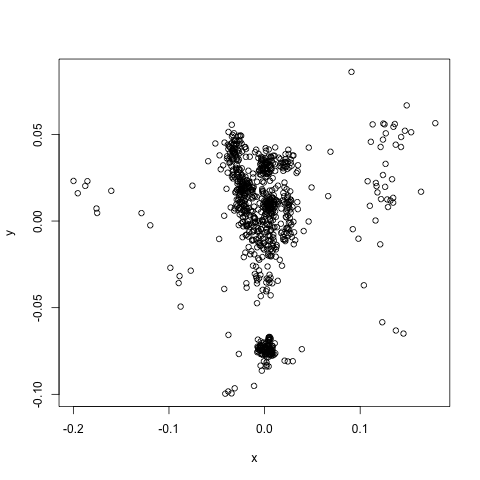
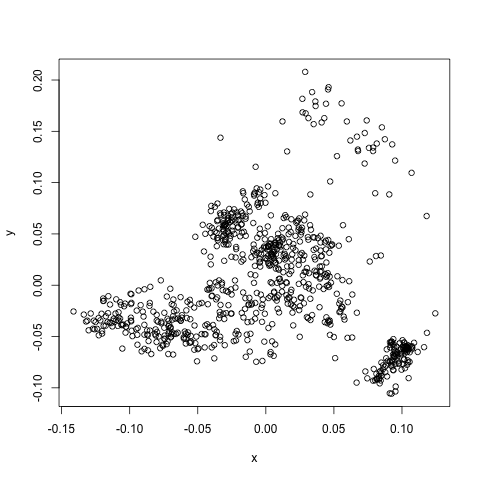
new analysis

diff --git a/cluster-snprelate/README.md b/cluster-snprelate/README.md
@@ -1,21 +1,15 @@
-<h2>Multidementional Scaling</h2>
+<h2>SNPRelate IBS then MDS</h2>
+SNPRelate R package using
+snpgdsIBS: Identity-By-State (IBS) - calculate the fraction of identity by state for each pair of samples
+cmdscale: Classical Multidementional Scaling, also known as principal coordinates analysis
 
-combined PHG472 and 2019_hapmap
+combined PHG472 and 2019_hapmap, both data sets are filtered before merging with maf < 0.5 and missing > 50% removed
 
 cluster data without market class
-![kmeans](https://github.com/TriticeaeToolbox/PHGv2/blob/main/cluster-snprelate/images/snprelate-exome-cluster-kmeans.jpg)
+![kmeans](https://github.com/TriticeaeToolbox/PHGv2/blob/main/cluster-snprelate/images/snprelate-exomeseq-ibs-mds.png)
 
 cluster data using market class
-![MDS](https://github.com/TriticeaeToolbox/PHGv2/blob/main/cluster-snprelate/images/snprelate-exome-cluster-market.jpg)
-
-the above plots don't show points or symbols so redo using generic plot
+![MDS](https://github.com/TriticeaeToolbox/PHGv2/blob/main/cluster-snprelate/images/snprelate-ibs-mds-marketclass-with-legend.png)
 
 cluster data using PC1 and PC2
 ![PCA](https://github.com/TriticeaeToolbox/PHGv2/blob/main/cluster-snprelate/images/snprelate-2019_hapmap-pca.jpg)
-
-cluster data using IBS and MDS
-![MDS](https://github.com/TriticeaeToolbox/PHGv2/blob/main/cluster-snprelate/images/snprelate-2019_hapmap-MDS.jpg)
-
-![hardness](https://github.com/TriticeaeToolbox/PHGv2/blob/main/cluster-snprelate/images/snprelate-2019_hapmap-cluster-hardness.jpg)
-![color   ](https://github.com/TriticeaeToolbox/PHGv2/blob/main/cluster-snprelate/images/snprelate-2019_hapmap-cluster-color.jpg)
-![season  ](https://github.com/TriticeaeToolbox/PHGv2/blob/main/cluster-snprelate/images/snprelate-2019_hapmap-cluster-season.jpg)
